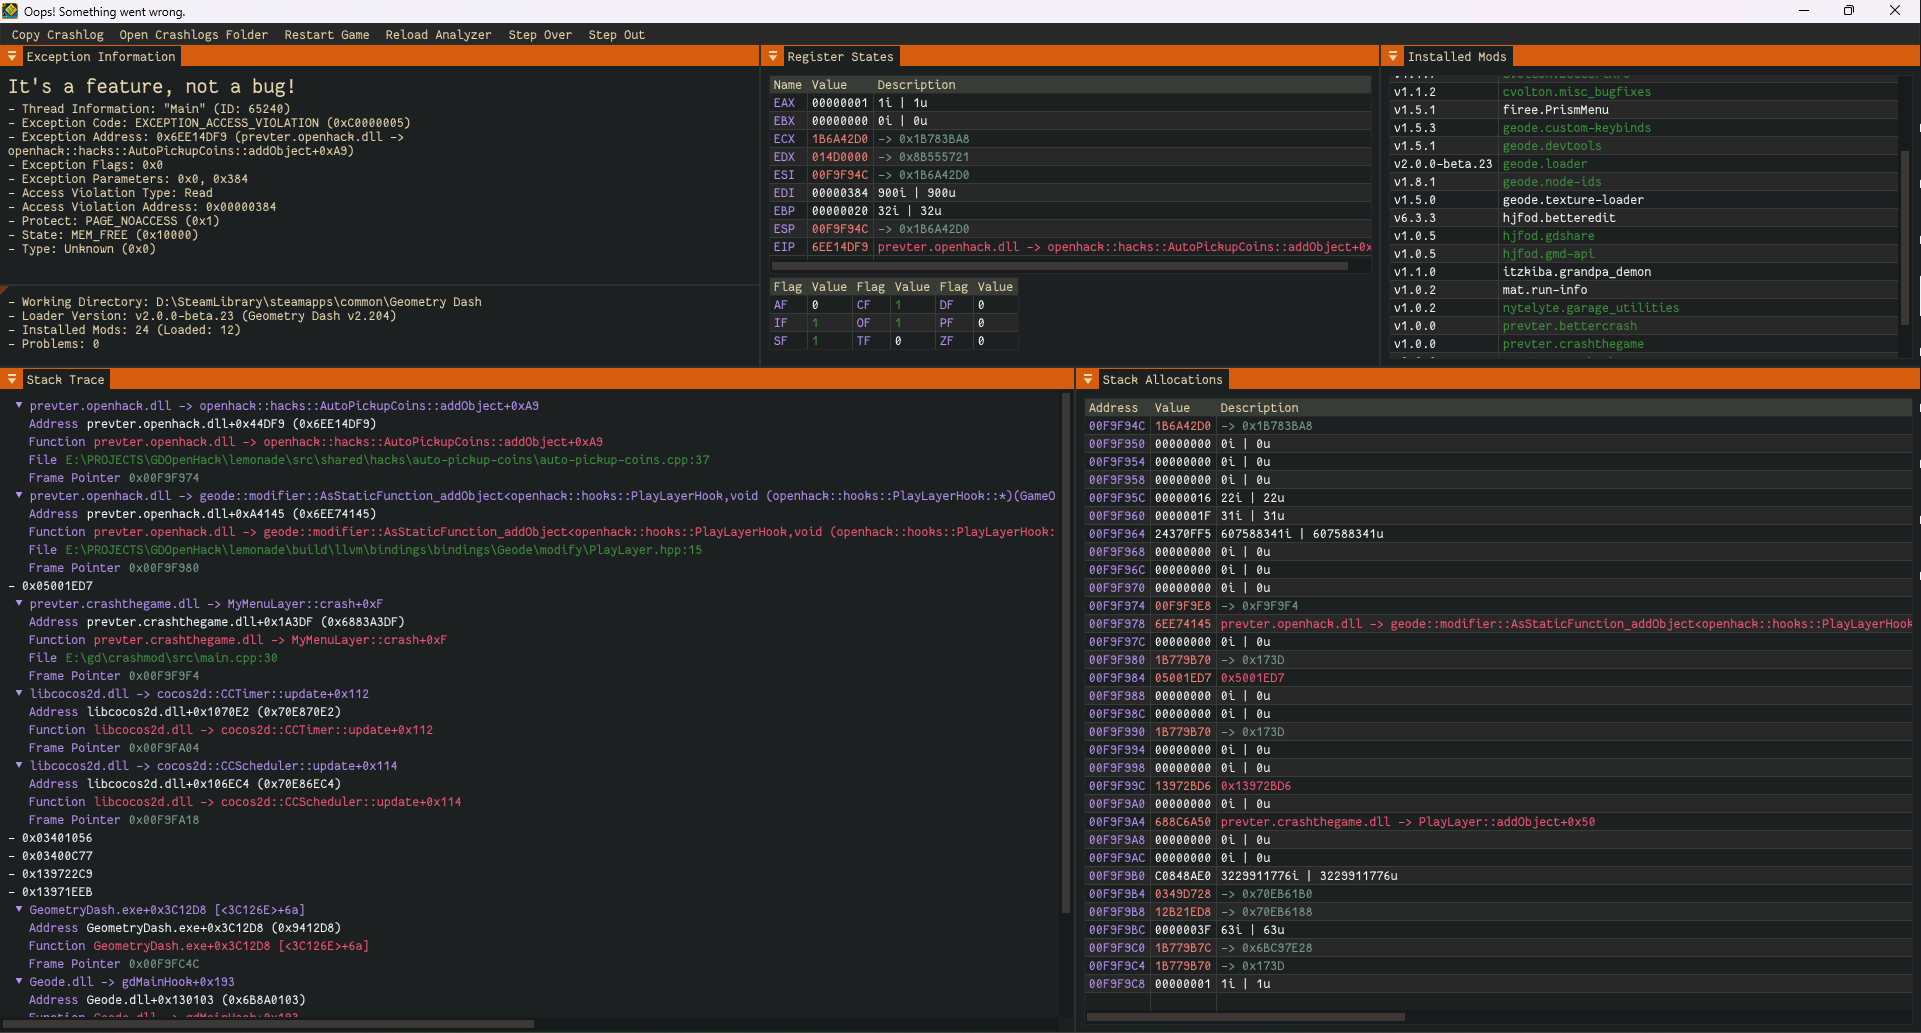
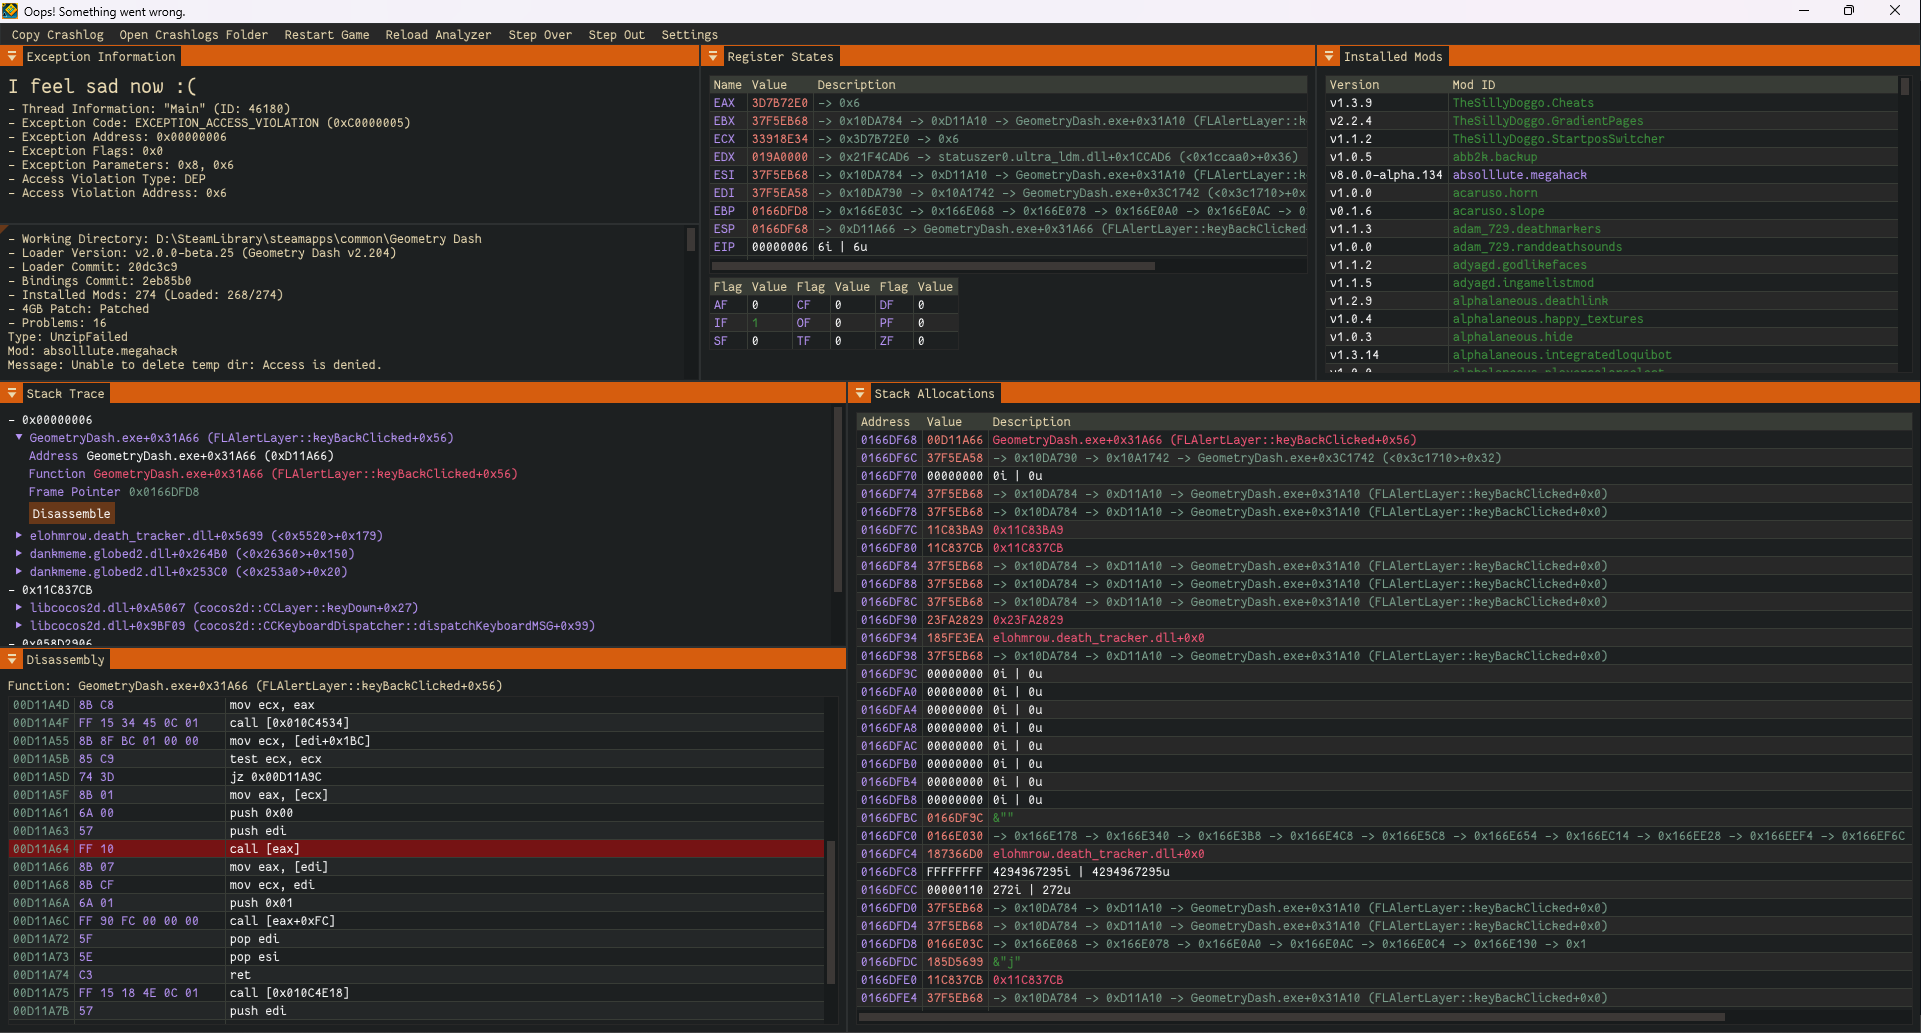
update docs

diff --git a/src/analyzer/analyzer.cpp b/src/analyzer/analyzer.cpp
@@ -138,7 +138,7 @@ namespace analyzer {
         }
 
         if (name.empty()) {
-            return fmt::format("{}+0x{:X}", module, offset); // No function name
+            return fmt::format("{}+0x{:X}", module, address); // No function name
         }
 
         return fmt::format("{}+0x{:X} ({}+0x{:x})", module, address, name, offset);

diff --git a/about.md b/about.md
@@ -17,8 +17,8 @@ A mod that overhauls the crash log system in Geometry Dash.
 - [x] Ability to continue execution (may crash again)
 - [x] Motivational quotes (like in Minecraft)
 - [x] Base game method names (no more GeometryDash.exe+0x123456)
+- [x] Basic disassembly view (using Zydis)
 
 ## Planned Features
 - [ ] Fetch .pdb files from mod's GitHub repository (if available)
-- [ ] Basic disassembly view (using Zydis)
 - [ ] Add a settings menu to configure the theme/font size

diff --git a/README.md b/README.md
@@ -23,8 +23,8 @@
 - [x] Ability to continue execution (may crash again)
 - [x] Motivational quotes (like in Minecraft)
 - [x] Base game method names (no more GeometryDash.exe+0x123456)
+- [x] Basic disassembly view (using Zydis)
 
 ## TODO
 - [ ] Fetch .pdb files from mod's GitHub repository (if available)
-- [ ] Basic disassembly view (using Zydis)
 - [ ] Add a settings menu to configure the theme/font size

diff --git a/CHANGELOG.md b/CHANGELOG.md
@@ -1,3 +1,10 @@
+## v1.2.0
+- Save window position and size
+- Improved function name resolution
+- Added font scale option
+- Added a check for "4GB Patch" as well as a button to apply it
+- Added **disassembly** view
+
 ## v1.1.1
 - Added a fallback message box for GPU driver crashes
 - Fixed method offset calculation
